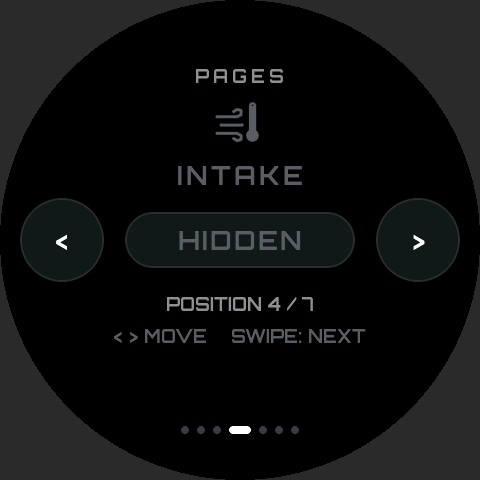
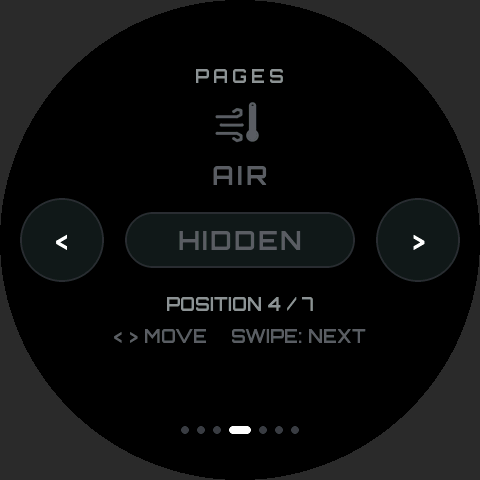
round gauge: intake page named AIR / VZDUCH
Claude-Session: https://claude.ai/code/session_018SKN4tJhAPpVCWtvRZgZpD

Changed region(s): [[0.3438, 0.3438, 0.625, 0.4062]]

diff --git a/dash/notstock-round/main/ui_round.c b/dash/notstock-round/main/ui_round.c
@@ -49,12 +49,12 @@ static const struct { int extra; lv_opa_t opa; } GLOW[N_ARC] = {
 static const char *const NAME[RND_LANG_COUNT][RND_WARN_COUNT] = {
     [RND_LANG_EN] = {
         [RND_WATER] = "WATER", [RND_OIL] = "OIL", [RND_BOOST] = "BOOST",
-        [RND_INTAKE] = "INTAKE", [RND_EXHAUST] = "EGT",
+        [RND_INTAKE] = "AIR", [RND_EXHAUST] = "EGT",
         [RND_RPM] = "ENGINE", [RND_WARN_SOOT] = "DPF SOOT",
     },
     [RND_LANG_CS] = {
         [RND_WATER] = "VODA", [RND_OIL] = "OLEJ", [RND_BOOST] = "TURBO",
-        [RND_INTAKE] = "SÁNÍ", [RND_EXHAUST] = "EGT",
+        [RND_INTAKE] = "VZDUCH", [RND_EXHAUST] = "EGT",
         [RND_RPM] = "OTÁČKY", [RND_WARN_SOOT] = "SAZE DPF",
     },
 };

diff --git a/dash/notstock-round/README.md b/dash/notstock-round/README.md
@@ -145,7 +145,7 @@ stores them (`rnd_settings_save()`, the platform's NVS).
 
 All text goes through `TR("ENGLISH", "ČESKY")` (`ui_round_int.h`), page
 names and units through `rnd_page_name()` / `rnd_unit()` (`ui_round.c`):
-VODA, OLEJ, TURBO, SÁNÍ, EGT, OTÁČKY (ot/min), SAZE DPF. The UI is upper
+VODA, OLEJ, TURBO, VZDUCH, EGT, OTÁČKY (ot/min), SAZE DPF. The UI is upper
 case, so the fonts carry the Czech capitals only. Orbitron has no
 Č Ď Ě Ň Ř Ť Ů: `tools/patch_font.py` builds them from its own C D E N R T U
 and the caron / ring of Š and Å, into a renamed temporary copy (Orbitron
